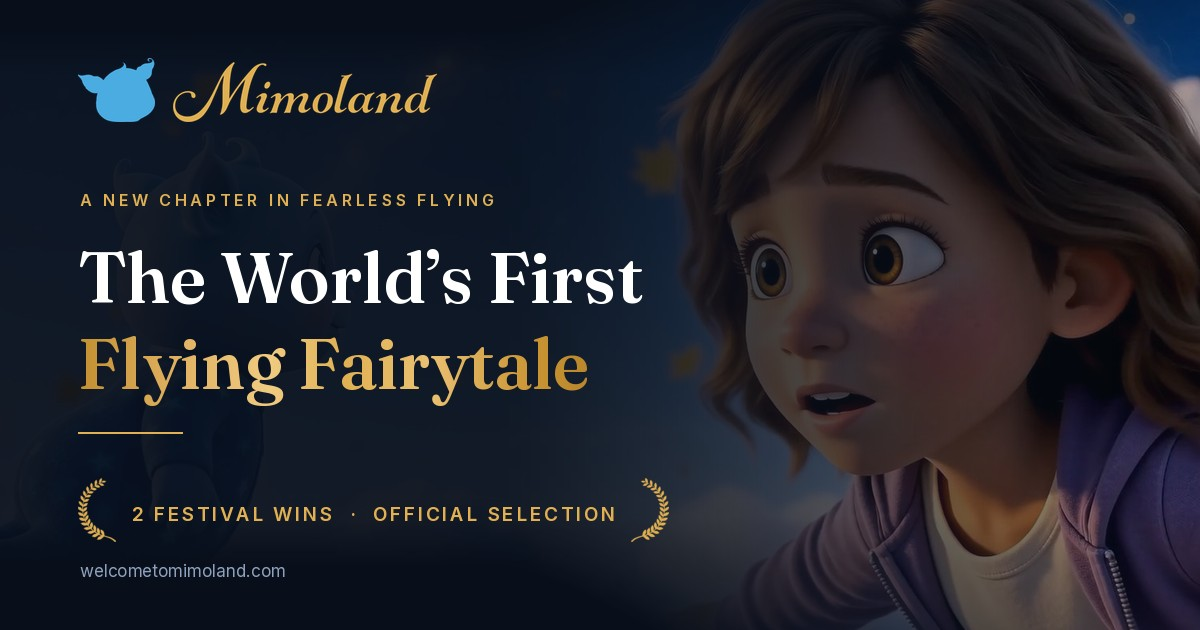
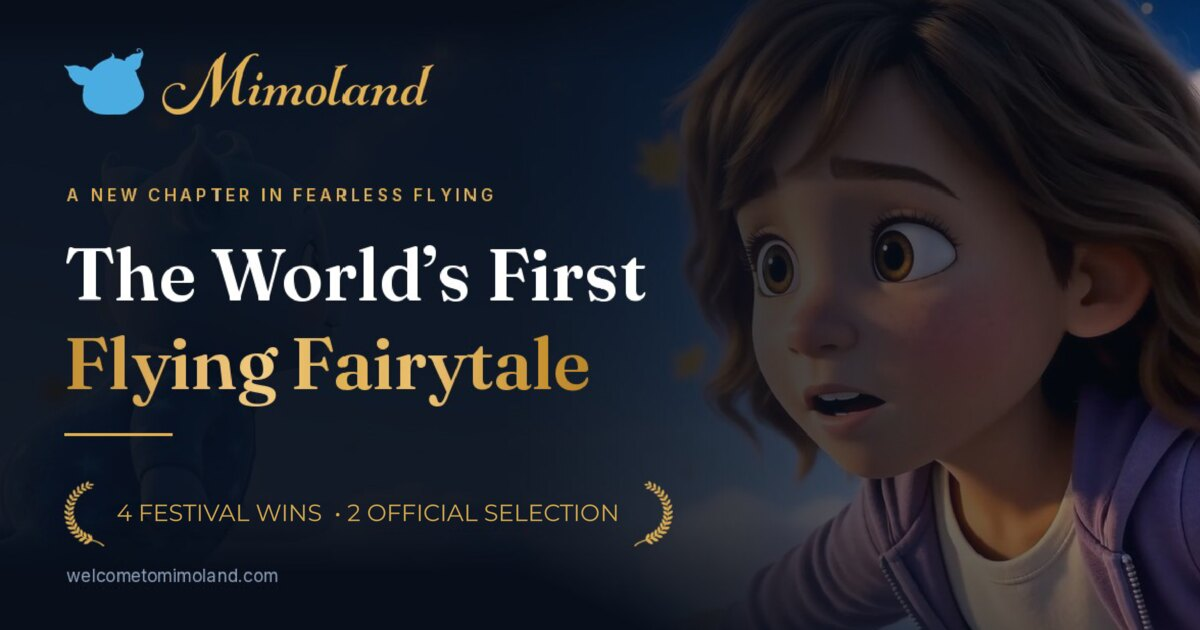
Bring the Prompt credit in line with the others and refresh the share card
Prompt Film Festival Toronto now reads like the rest: the festival in full as
the title, Official Screening as the honour, in both the hero and Recognition.
og.jpg is the new hand-composed card (4 wins, 2 official selections), so its
alt text follows.

diff --git a/content/site.tsx b/content/site.tsx
@@ -87,8 +87,8 @@ export const laurels = [
   },
   {
     kind: "Official Selection",
-    title: "Prompt Film Festival",
-    body: "Toronto",
+    title: "Prompt Film Festival Toronto",
+    body: "Official Screening",
     href: festivals.prompt,
   },
   {
@@ -376,8 +376,8 @@ export const recognition: {
   },
   {
     icon: "laurel",
-    name: "Prompt Film Festival",
-    note: "Official Selection · Toronto",
+    name: "Prompt Film Festival Toronto",
+    note: "Official Selection · Official Screening",
     href: festivals.prompt,
   },
   {

diff --git a/app/layout.tsx b/app/layout.tsx
@@ -24,7 +24,7 @@ export const metadata: Metadata = {
         url: "/og.jpg",
         width: 1200,
         height: 630,
-        alt: "Mimoland — the world's first flying fairytale. Miri reaches toward her Mimo above the clouds, beside two festival wins and an official selection.",
+        alt: "Mimoland — the world's first flying fairytale. Miri looks on in wonder beside four festival wins and two official selections.",
       },
     ],
   },

diff --git a/docs/website-copy.md b/docs/website-copy.md
@@ -46,7 +46,7 @@ education and aviation to build confidence before anxiety can take root.
 - **Winner** — Best AI Director · London AI Shorts
 - **Winner** — Best Short · AI Indie Cinema London
 - **Winner** — Best Screenplay · AI Indie Cinema London
-- **Official Selection** — Prompt Film Festival · Toronto
+- **Official Selection** — Official Screening · Prompt Film Festival Toronto
 - **Official Selection** — Best AI Film · Auguri Film Festival Italy
 
 ---
@@ -281,7 +281,7 @@ confidence, imagination and a positive connection with flying.
 - London AI Shorts · Winner, Best AI Director
 - AI Indie Cinema London · Winner, Best Short
 - AI Indie Cinema London · Winner, Best Screenplay
-- Prompt Film Festival, Toronto · Official Selection
+- Prompt Film Festival Toronto · Official Selection, Official Screening
 - Auguri Film Festival Italy · Official Selection, Best AI Film
 - Impact Hub · Top 7 Balkan Startups 2021
 - National Library of Serbia
